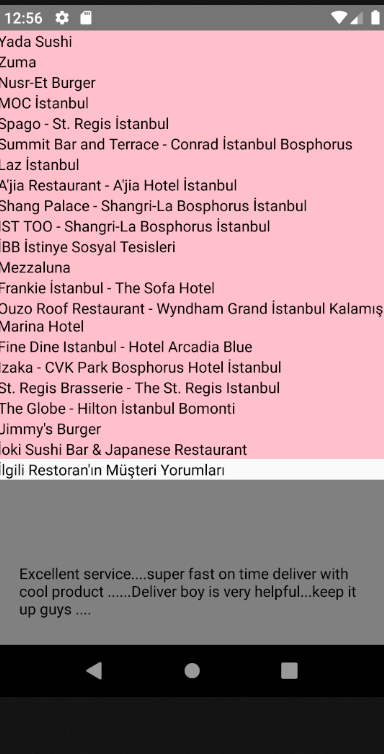
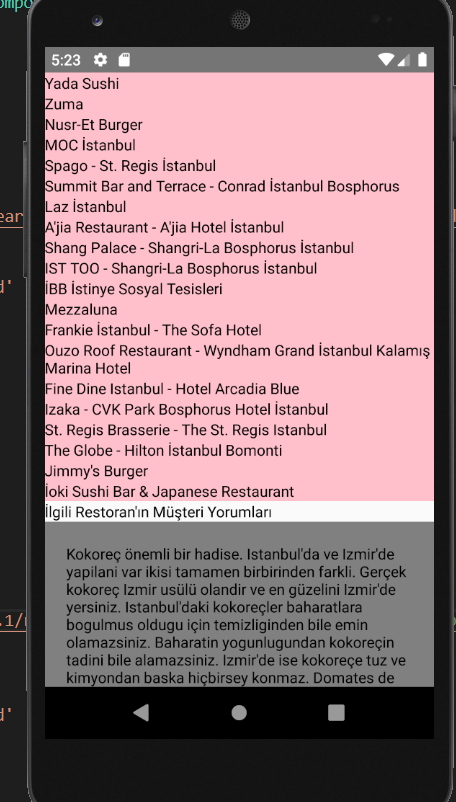
Odev7

diff --git a/Odev7/Rest.js b/Odev7/Rest.js
@@ -27,7 +27,7 @@ export default class Restoran_Getir extends React.Component{
     });
   }
   tiklandi(id){
-    var str = 'https://developers.zomato.com/api/v2.1/reviews?res_id=16694272'+id;
+    var str = 'https://developers.zomato.com/api/v2.1/reviews?res_id=16694272';  //"https://developers.zomato.com/api/v2.1/reviews?res_id=7   https://developers.zomato.com/api/v2.1/reviews?res_id=16694272
     fetch(str,{
       method:'GET',
       headers:{
